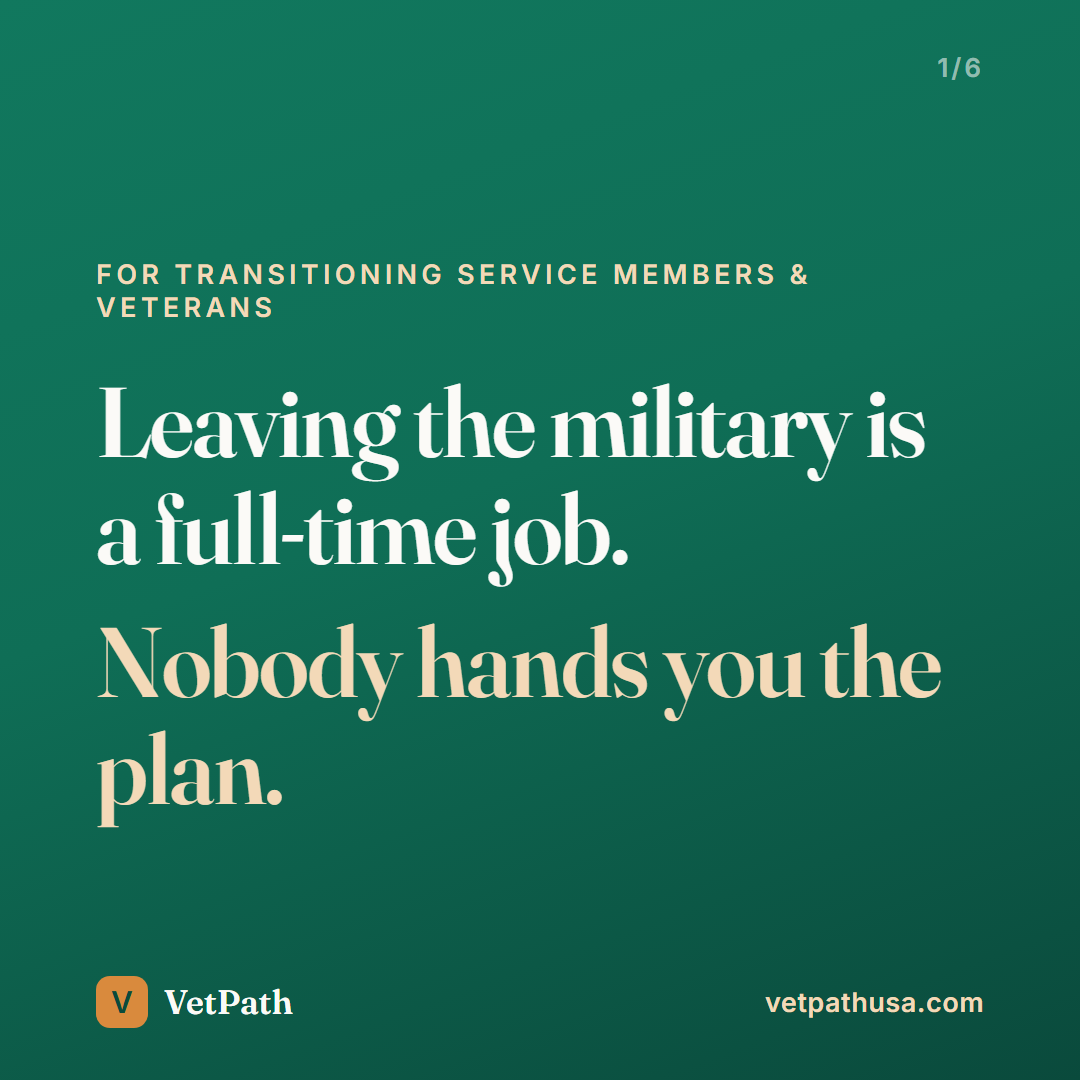
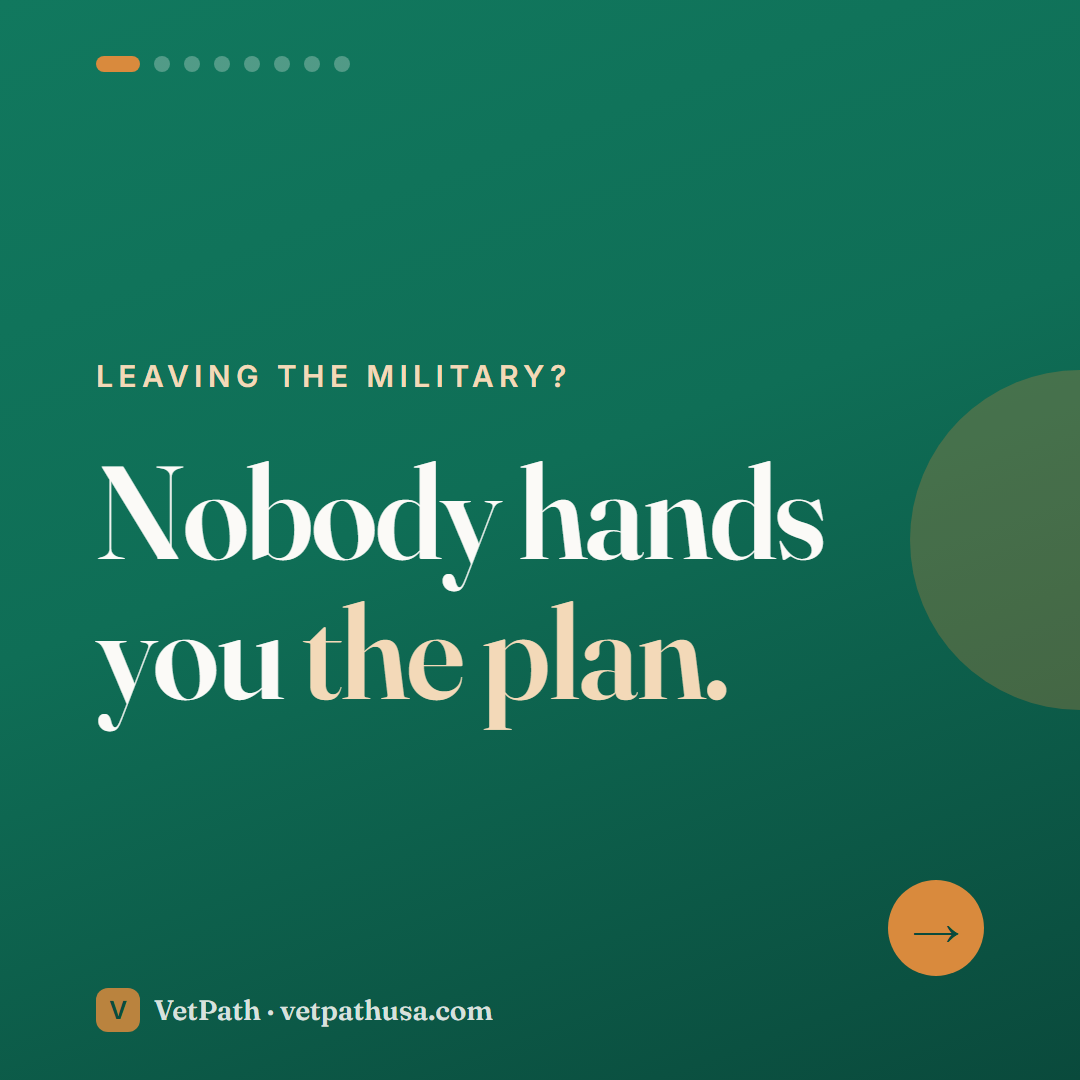
Carousel v2: rebuilt for engagement (research-driven)
Kaleb's review: v1 too wordy, hard to follow. Researched carousel
engagement data and rebuilt: under 20 words per slide (was 40-70),
one idea per slide, 8 slides instead of 6 (6-10 is the completion-rate
sweet spot; each swipe is a reach signal), 100-132px headlines, hook
slide with edge-bleed + swipe arrow, open-loop arrows through slide 7,
save-prompt chip on 7, single CTA on 8, amber progress dots. Kit alt
text updated to match.

diff --git a/share/social/frank-social-post-kit.md b/share/social/frank-social-post-kit.md
@@ -1,7 +1,10 @@
 # Frank's social post kit - carousel + captions
 
-Six slides live in this folder (vetpath-carousel-01 through 06, 1080x1080,
-upload in order). Two captions below - LinkedIn and Facebook read
+Eight slides live in this folder (vetpath-carousel-01 through 08, 1080x1080,
+upload in order). Built to carousel engagement research: one idea per
+slide, under 20 words per slide, swipe arrows through slide 7, a save
+prompt on slide 7, and exactly one CTA on slide 8. More swipes = more
+reach, which is why the deck is 8 short slides instead of 6 dense ones. Two captions below - LinkedIn and Facebook read
 differently on purpose. Square brackets are the only words Frank needs
 to add. **Use the exact links given** - the tags are how we learn which
 platform actually sends veterans.
@@ -67,22 +70,14 @@ government.)
 
 ## Alt text (paste one per slide - accessibility matters to this audience)
 
-1. Green slide: "Leaving the military is a full-time job. Nobody hands
-   you the plan." VetPath, for transitioning service members and veterans.
-2. "Why we built VetPath - the information exists, the plan doesn't.
-   Benefits and deadlines are scattered across fifty websites; veterans
-   find out what they earned years too late."
-3. "Ten minutes, one plan: a printable 30/60/90-day gameplan, benefits
-   cited to official sources for all 50 states, career direction with
-   real federal pay data, and a documents checklist."
-4. "Deadlines become real dates: enter your EAS or ETS date and every
-   claims window, insurance conversion, and enrollment cutoff lands on
-   your calendar."
-5. "Built to be trusted, not to sell to you: free for veterans, every
-   number links to its official source, claims point to accredited help,
-   no ad trackers. VetPath is not the VA."
-6. "Your next chapter deserves a plan. vetpathusa.com - free, no app,
-   works on any phone."
+1. "Leaving the military? Nobody hands you the plan." VetPath.
+2. "Your benefits live on 50 different websites. Written for lawyers."
+3. "Most veterans find out what they earned years too late."
+4. "Why we built VetPath - the thing you should've been handed on day one."
+5. "10 minutes becomes your 30/60/90-day plan. Benefits, career, deadlines, cited to official sources."
+6. "Type your EAS date. Every deadline lands on a real calendar."
+7. "Free, always. No ads, nothing sold to you. Claims go to accredited help, never paid consultants. Save this for someone separating soon."
+8. "vetpathusa.com - free, no app, any phone. Tap the link in this post. A planning tool, not the VA, not government-affiliated."
 
 ---
 
